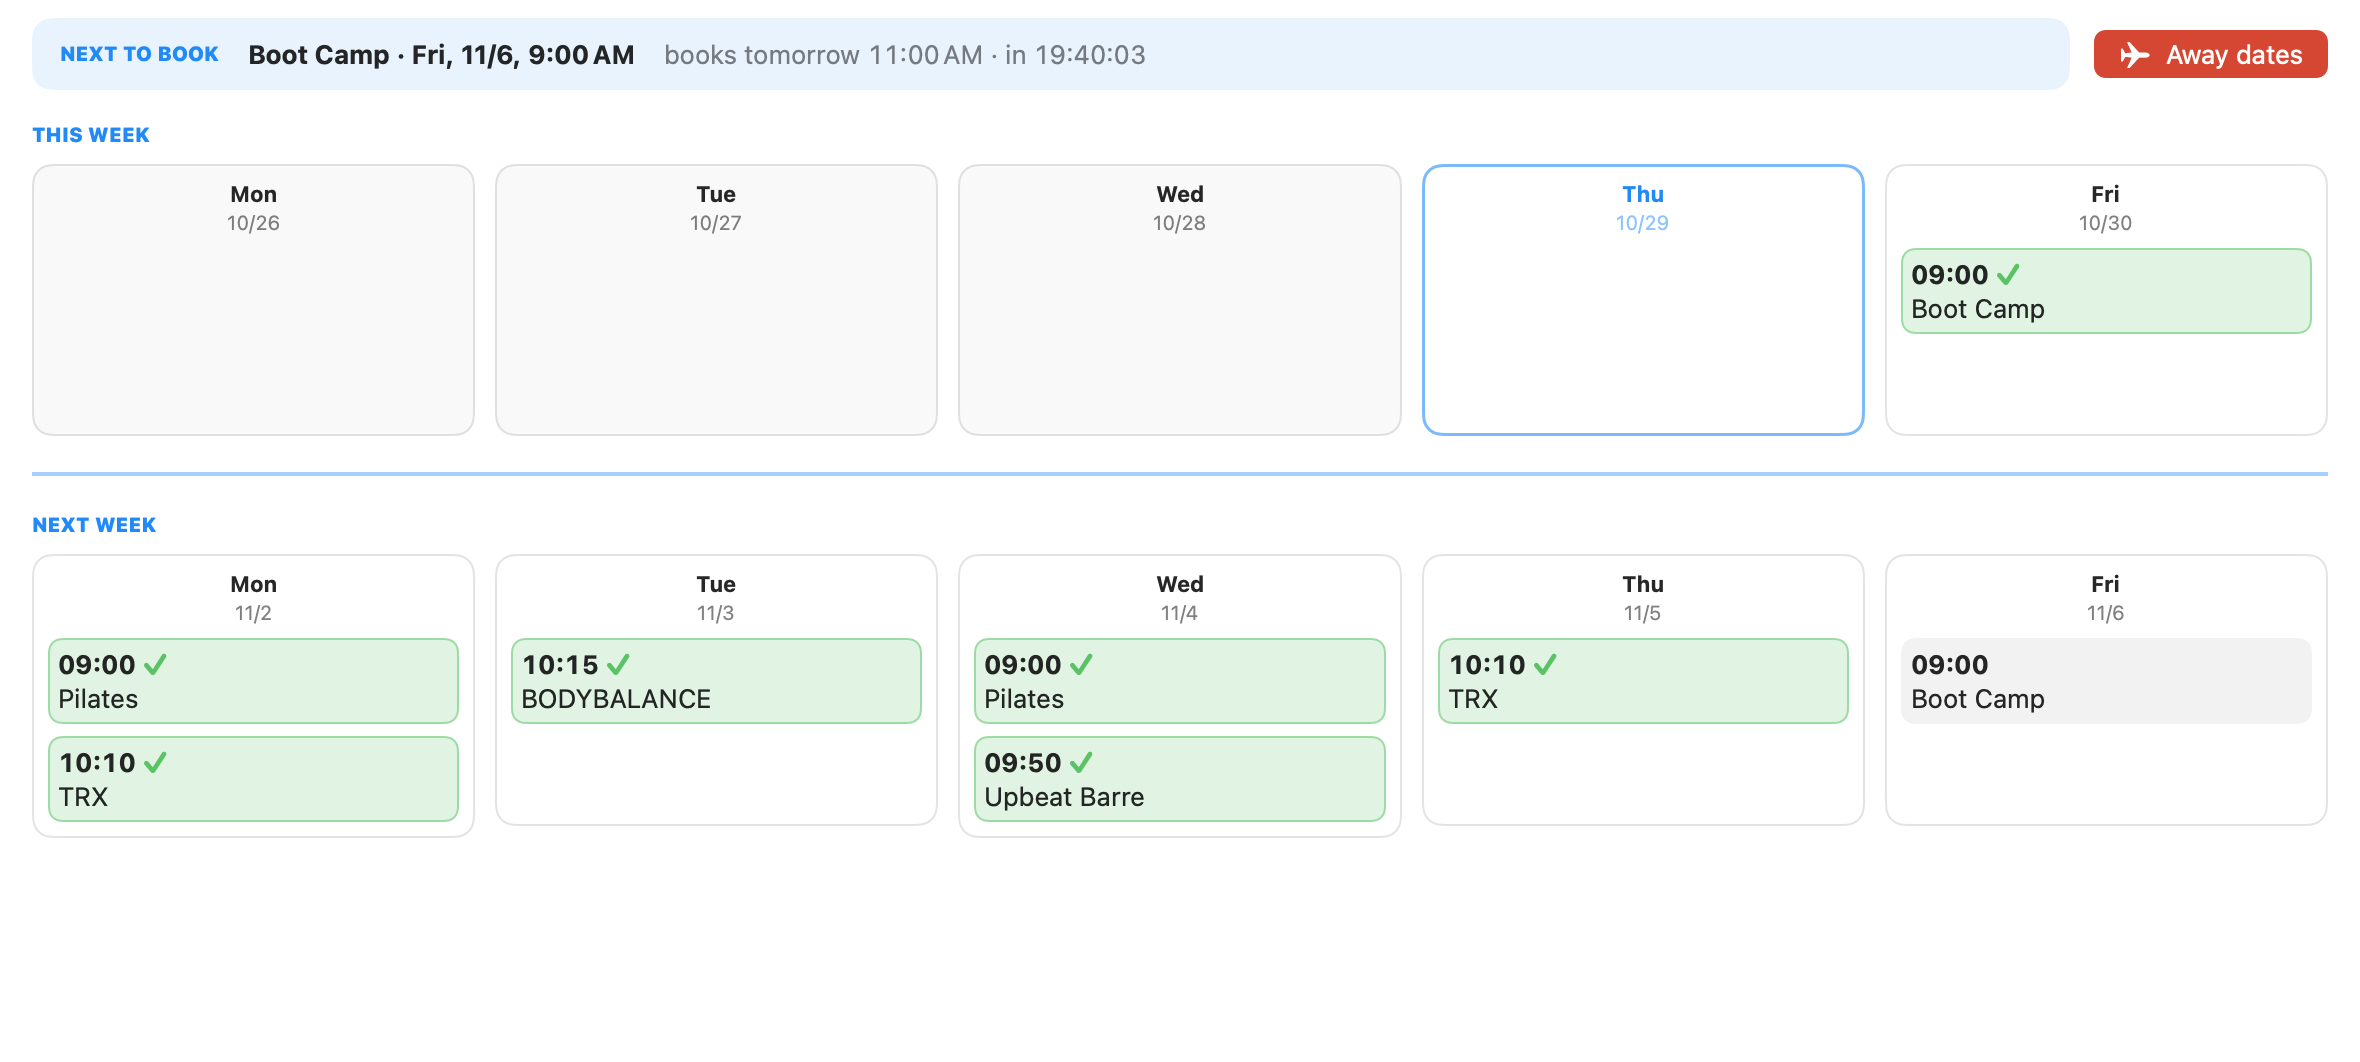
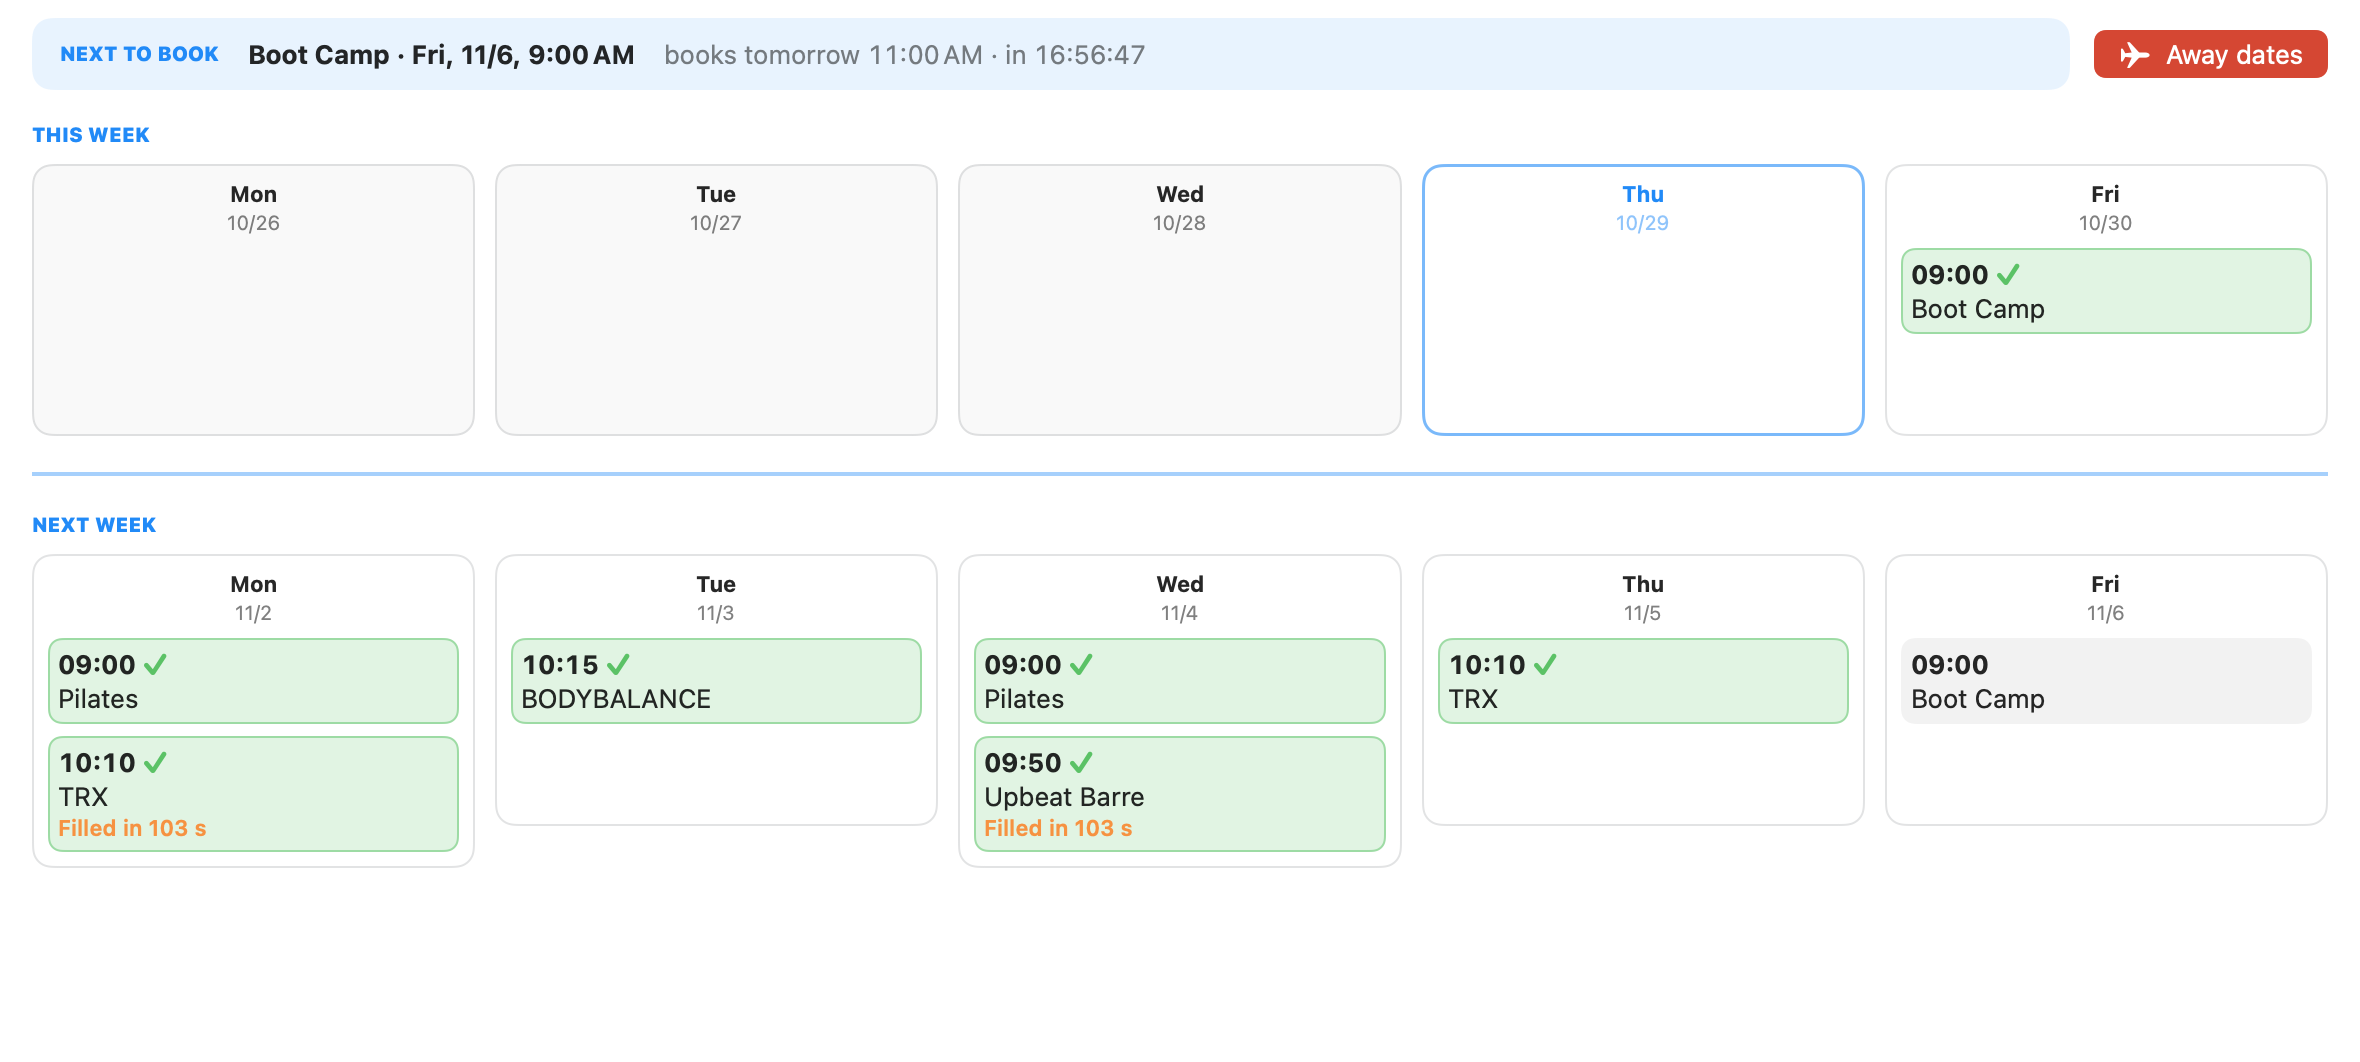
Schedule: "Filled in 43 s" on classes that filled (#242)
The Mac already reads when each class filled (full_group_at); it now
carries it in the published schedule (ScheduleItem.fillSeconds, optional,
inside the existing JSON, so no schema change and older iPhones ignore
it). Shown under the class on the Mac and iPad calendars and the iPhone
list; classes that haven't filled show nothing extra.

Claude-Session: https://claude.ai/code/session_01TinE6kP4yPHv2TZ2PdXNmB

Changed region(s): [[0.4021, 0.7458, 0.5877, 0.8079], [0.0, 0.7458, 0.2165, 0.8079], [0.4331, 0.0311, 0.4949, 0.0621]]

diff --git a/app/YmcaAutobook/macOS/Engine/Engine.swift b/app/YmcaAutobook/macOS/Engine/Engine.swift
@@ -775,7 +775,8 @@ final class Engine: ObservableObject {
                     upcoming.append(ScheduleItem(
                         id: o.id, name: o.title, occursAt: o.occursAt, openAt: o.openAt, minutes: o.durationMinutes,
                         branchId: branch, room: o.room, trainer: o.trainer, capacity: o.capacity,
-                        full: o.isFull, joined: o.isJoined, autoBook: false))
+                        full: o.isFull, joined: o.isJoined, autoBook: false,
+                        fillSeconds: o.fullGroupAt.map { $0.timeIntervalSince(o.openAt) }.flatMap { $0 >= 0 ? $0 : nil }))
                 }
             }
             // Picked sessions: wait for the opening, book now, or let go.
@@ -795,7 +796,7 @@ final class Engine: ObservableObject {
                 .map { i in ScheduleItem(id: i.id, name: i.name, occursAt: i.occursAt, openAt: i.openAt,
                                          minutes: i.minutes, branchId: i.branchId, room: i.room, trainer: i.trainer,
                                          capacity: i.capacity, full: i.full, joined: i.joined,
-                                         autoBook: lineup.contains(i.id)) }
+                                         autoBook: lineup.contains(i.id), fillSeconds: i.fillSeconds) }
                 .sorted { ($0.occursAt, $0.id) < ($1.occursAt, $1.id) }
             openings = found.sorted { $0.openAt < $1.openAt }
             bookings = joined.sorted { $0.occursAt < $1.occursAt }
@@ -939,7 +940,7 @@ final class Engine: ObservableObject {
             ids.contains(i.id) && !i.joined
                 ? ScheduleItem(id: i.id, name: i.name, occursAt: i.occursAt, openAt: i.openAt, minutes: i.minutes,
                                branchId: i.branchId, room: i.room, trainer: i.trainer, capacity: i.capacity,
-                               full: i.full, joined: true, autoBook: i.autoBook)
+                               full: i.full, joined: true, autoBook: i.autoBook, fillSeconds: i.fillSeconds)
                 : i
         }
         return (list, items)

diff --git a/app/YmcaAutobook/iOS/Features/ScheduleView.swift b/app/YmcaAutobook/iOS/Features/ScheduleView.swift
@@ -378,6 +378,9 @@ private struct ScheduleRow: View {
                     Text(timeRange).font(.caption).foregroundStyle(.secondary).monospacedDigit()
                     BranchChip(branch: row.occ.branch)
                 }
+                if let f = row.item?.fillSeconds {
+                    Text(FillSpeed.filled(f)).font(.caption.weight(.semibold)).foregroundStyle(Theme.queued)
+                }
             }
             Spacer(minLength: 4)
             chip
@@ -610,6 +613,10 @@ private struct TwoWeekGrid: View {
             ForEach(occs) { occ in
                 let away = occ.classKey.map { awayRanges.isAway(date, classKey: $0) } ?? false
                 GridCell(occ: occ, away: away || skipped(occ, on: date),
+                         fill: CloudSource.shared.schedule?.first {
+                             $0.name == occ.name && ClubTime.hhmm($0.occursAt) == occ.start
+                                 && CalendarHelper.pacific.isDate($0.occursAt, inSameDayAs: date)
+                         }?.fillSeconds,
                          swapRole: swaps.role(name: occ.name, start: occ.start,
                                               classKey: occ.classKey, on: date),
                          past: CalendarHelper.startDate(occ.start, on: date).map { $0 < Date() } ?? false,
@@ -623,6 +630,7 @@ private struct TwoWeekGrid: View {
 private struct GridCell: View {
     let occ: Occurrence
     let away: Bool
+    var fill: Double? = nil
     var swapRole: SwapRole? = nil
     let past: Bool
     let font: CGFloat
@@ -637,7 +645,7 @@ private struct GridCell: View {
         CalendarCell(time: occ.start, name: occ.name, booked: occ.booked, dropped: dropped, past: past,
                      queued: swapRole == .replacement,
                      symbol: swapRole.map { ("arrow.triangle.swap", $0 == .replacement ? Theme.queued : Theme.away) },
-                     font: font)
+                     note: fill.map(FillSpeed.filled), font: font)
     }
 }
 // MARK: - Zoomable full-screen calendar

diff --git a/app/YmcaAutobook/macOS/UI/MacScheduleView.swift b/app/YmcaAutobook/macOS/UI/MacScheduleView.swift
@@ -188,7 +188,8 @@ struct MacScheduleView: View {
         return Button { open = e.id } label: {
             CalendarCell(time: Self.hhmm(e.item.occursAt), name: e.item.name,
                          booked: e.state == .booked, dropped: dropped,
-                         queued: e.state == .queued || e.state == .booking)
+                         queued: e.state == .queued || e.state == .booking,
+                         note: e.item.fillSeconds.map(FillSpeed.filled))
                 .contentShape(Rectangle())
         }
         .help(status(e).0)
@@ -221,7 +222,9 @@ struct MacScheduleView: View {
     }
 
     private func pastCell(_ p: Past) -> some View {
-        CalendarCell(time: Self.hhmm(p.occursAt), name: p.name, booked: p.booked, past: true)
+        let fill = engine.history.first { $0.occursAt == p.occursAt && $0.name.lowercased() == p.name.lowercased() }?.fillSeconds
+        return CalendarCell(time: Self.hhmm(p.occursAt), name: p.name, booked: p.booked, past: true,
+                            note: fill.map(FillSpeed.filled))
             .help(p.verdict)
     }
 

diff --git a/app/YmcaAutobook/macOS/Engine/MacSample.swift b/app/YmcaAutobook/macOS/Engine/MacSample.swift
@@ -54,7 +54,8 @@ enum MacSample {
                 id += 1
                 out.append(ScheduleItem(id: id, name: c.2, occursAt: at, openAt: at.addingTimeInterval(-lead),
                                         minutes: c.4, branchId: c.3, room: c.5, trainer: c.6, capacity: 30,
-                                        full: false, joined: c.7 && at.addingTimeInterval(-lead) <= now, autoBook: c.7))
+                                        full: false, joined: c.7 && at.addingTimeInterval(-lead) <= now, autoBook: c.7,
+                                        fillSeconds: c.7 && at.addingTimeInterval(-lead) <= now ? [43, nil, 28, nil, 103][id % 5] : nil))
             }
         }
         return out.sorted { $0.occursAt < $1.occursAt }

diff --git a/app/YmcaAutobook/Shared/CalendarCell.swift b/app/YmcaAutobook/Shared/CalendarCell.swift
@@ -14,6 +14,8 @@ struct CalendarCell: View {
     var queued = false
     /// An extra symbol after the time (the iPhone's swap arrows).
     var symbol: (name: String, color: Color)? = nil
+    /// A line under the name, e.g. "Filled in 43 s".
+    var note: String? = nil
     var font: CGFloat = 13
 
     static let booked = Color.green
@@ -40,6 +42,10 @@ struct CalendarCell: View {
                 }
             }
             nameText
+            if let note {
+                Text(note).font(.system(size: font - 2, weight: .semibold)).foregroundStyle(Self.queued)
+                    .lineLimit(1).minimumScaleFactor(0.8)
+            }
         }
         .frame(maxWidth: .infinity, alignment: .leading)
         .padding(5)

diff --git a/app/YmcaAutobook/iOS/Support/SampleData.swift b/app/YmcaAutobook/iOS/Support/SampleData.swift
@@ -147,7 +147,8 @@ enum SampleData {
                 out.append(ScheduleItem(id: id, name: c.3, occursAt: at, openAt: open, minutes: c.2, branchId: c.4,
                                         room: c.5, trainer: c.6, capacity: c.8 ? 40 : 25,
                                         full: c.8 && open <= now && !c.7, joined: c.7 && open <= now,
-                                        autoBook: c.7))
+                                        autoBook: c.7,
+                                        fillSeconds: c.7 && open <= now ? [44, nil, 61, nil, 15][id % 5] : nil))
             }
         }
         return out.sorted { ($0.occursAt, $0.id) < ($1.occursAt, $1.id) }

diff --git a/app/YmcaAutobook/Shared/ClassPicks.swift b/app/YmcaAutobook/Shared/ClassPicks.swift
@@ -35,6 +35,9 @@ struct ScheduleItem: Codable, Hashable, Identifiable, Sendable {
     let joined: Bool
     /// In the weekly lineup: the Mac books it at the opening anyway.
     let autoBook: Bool
+    /// Seconds from the booking window opening to the class filling, once it
+    /// has (the YMCA stamps the moment). Added in 1.2; older iPhones ignore it.
+    var fillSeconds: Double? = nil
 
     var pick: ClassPick {
         ClassPick(occurrenceId: id, name: name, occursAt: occursAt, openAt: openAt, branchId: branchId,

diff --git a/app/YmcaAutobook/Shared/Theme.swift b/app/YmcaAutobook/Shared/Theme.swift
@@ -66,6 +66,9 @@ enum FillSpeed {
         return "\(Int((s / 86400).rounded())) d"
     }
 
+    /// One class that filled: "Filled in 43 s".
+    static func filled(_ seconds: Double) -> String { "Filled in \(duration(seconds))" }
+
     static func label(filledWeeks: Int, median: Double?) -> String {
         filledWeeks == 0 ? "Rarely fills" : "Fills in \(duration(median))"
     }

diff --git a/release-notes/1.2.md b/release-notes/1.2.md
@@ -11,3 +11,4 @@
 - Mac: the Away dates window no longer shows the GitHub backup's status (it's under Settings → Advanced mode), and its tip points to Schedule and Classes
 - Mac: Away dates is a blue button with an airplane, like Add a class (and like both on the iPhone)
 - The Mac uses the iPhone's colors (YMCA red buttons), branch chips (SW, NW) and class times, and both say how fast a class fills the same way ("Fills in 43 s")
+- Schedule shows how fast each class filled ("Filled in 43 s") once it has, on the Mac, iPhone and iPad
